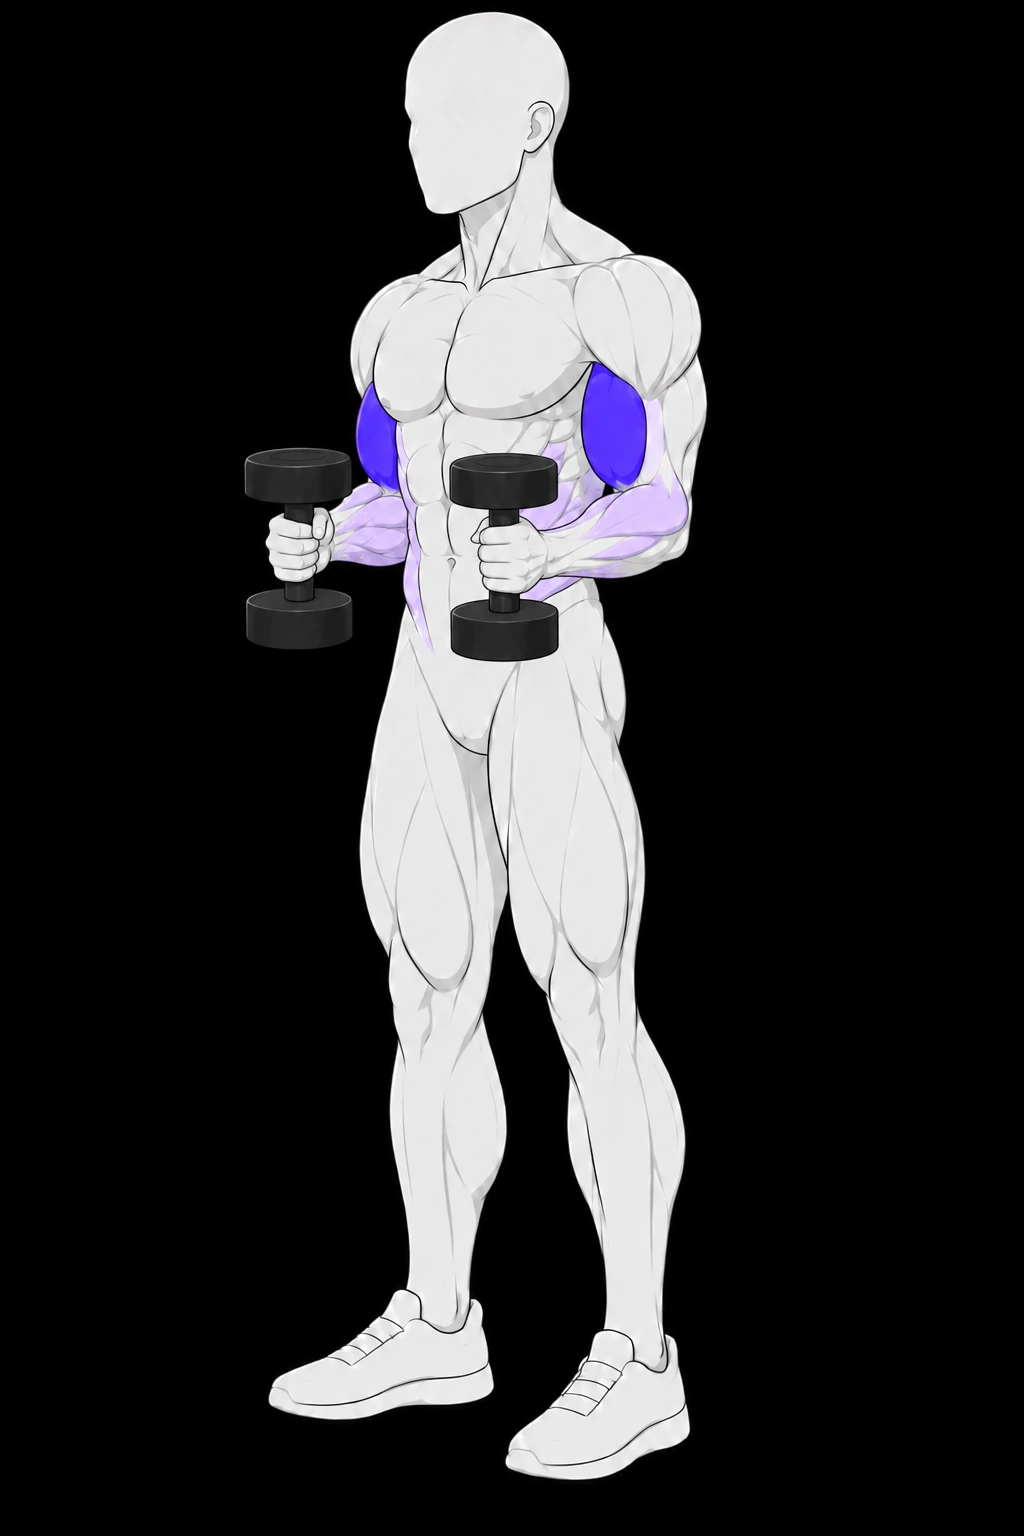
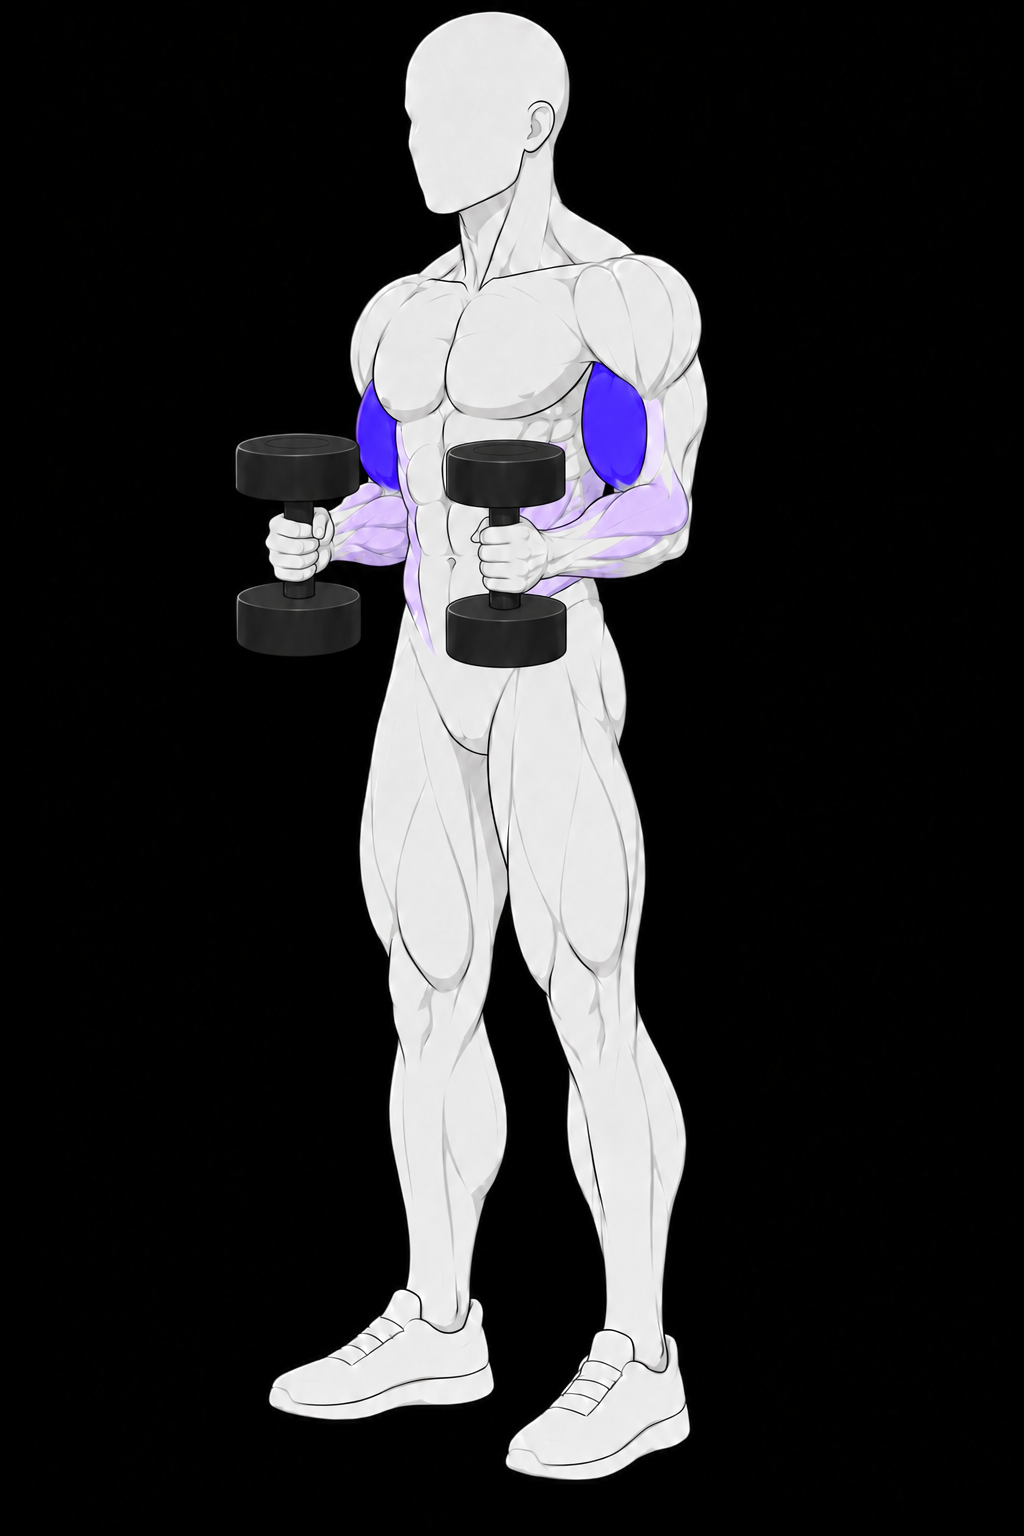
Release reviewed six-frame hammer curl guide (#2519)

diff --git a/src/lib/releasedFormPlacards.ts b/src/lib/releasedFormPlacards.ts
@@ -214,19 +214,7 @@ export const RELEASED_FORM_PLACARDS = {
     ]
   ),
   "db-curl": placard("db-curl", ["Biceps"], ["Forearms"], [[0,"Set","Stand tall with palms facing forward."],[0.5,"Curl","Bend your elbows without swinging your torso."],[1,"Top","Curl toward shoulders, keeping wrists straight."],[1,"Control","Keep upper arms close to your ribs."],[0.5,"Lower","Lower both dumbbells slowly under control."],[0,"Reset","Return near straight without snapping your elbows."]]),
-  "hammer-curl": placard(
-    "hammer-curl",
-    ["biceps", "brachialis"],
-    ["brachioradialis"],
-    [
-      [0, "Start", "Stand tall; keep palms facing inward."],
-      [0.25, "Initiate curl", "Curl without swinging your upper arms."],
-      [0.6, "Mid curl", "Keep wrists straight and elbows beside ribs."],
-      [1, "Top curl", "Finish the curl without lifting your elbows."],
-      [0.6, "Controlled lower", "Lower slowly with your palms facing inward."],
-      [0.25, "Return", "Return towards straight arms without bouncing."],
-    ]
-  ),
+  "hammer-curl": placard("hammer-curl", ["Biceps"], ["Brachioradialis", "Forearms"], [[0,"Set","Stand tall with palms facing inward."],[0.5,"Curl","Bend your elbows without turning your palms."],[1,"Top","Bring weights toward shoulders with wrists aligned."],[1,"Control","Keep upper arms beside your ribs."],[0.5,"Lower","Lower slowly with the same neutral grip."],[0,"Reset","Return near straight without swinging your torso."]]),
   "front-raise": placard(
     "front-raise",
     ["anterior deltoids"],

diff --git a/src/lib/__tests__/formArtOwnerRelease.test.ts b/src/lib/__tests__/formArtOwnerRelease.test.ts
@@ -7,7 +7,6 @@ import { validateOwnerArtworkRelease } from "../formArtOwnerRelease";
 import { validateArtworkReview } from "../formArtReview";
 
 const ids = [
-  "hammer-curl",
   "front-raise",
   "goblet-squat",
   "push-ups",
@@ -56,7 +55,7 @@ describe("owner-authorized artwork activation", () => {
      I/O, and raising it further would be treating the symptom. If this
      starts failing regularly rather than occasionally, the thing to
      look at is suite concurrency, not this number. */
-  it("ships exactly eight owner-authorized guides bound to source, delivered assets and cues", () => {
+  it("ships exactly seven owner-authorized guides bound to source, delivered assets and cues", () => {
     expect(
       Object.keys(FORM_ARTWORK)
         .filter(
@@ -82,7 +81,12 @@ describe("owner-authorized artwork activation", () => {
   it("keeps incomplete pilots inactive while releasing reviewed exact-ID guides", () => {
     for (const id of ["lat-pulldown", "deadlift", "incline-db-bench"])
       expect(getReleasedFormArtwork(id), id).toBeNull();
-    for (const id of ["concentration-curl", "bodyweight-squat", "db-curl"]) {
+    for (const id of [
+      "concentration-curl",
+      "bodyweight-squat",
+      "db-curl",
+      "hammer-curl",
+    ]) {
       expect(getReleasedFormArtwork(id)?.status, id).toBe("approved");
       const { review, expected } = evidence(id);
       expect(validateArtworkReview(review, expected), id).toEqual([]);

diff --git a/src/lib/formArtwork.ts b/src/lib/formArtwork.ts
@@ -180,7 +180,7 @@ export const FORM_ARTWORK: Record<string, FormArtwork> = {
     reviewFile: "docs/exercise-art/releases/2026-09-22/weighted-push-ups.json",
   },
   "db-curl": { version: "anatomy-v3-2026-09-29", status: "approved", width: 1024, height: 1536, frames: Array.from({length:6}, (_,i) => `form-frames/db-curl/${i+1}.webp`), reference: "form-frames/db-curl/1.webp", reviewFile: "docs/exercise-art/releases/2026-09-29/db-curl.json" },
-  "hammer-curl": ownerReleased("hammer-curl", 1024, 1536),
+  "hammer-curl": { version: "anatomy-v3-2026-09-29", status: "approved", width: 1024, height: 1536, frames: Array.from({length:6}, (_,i) => `form-frames/hammer-curl/${i+1}.webp`), reference: "form-frames/hammer-curl/1.webp", reviewFile: "docs/exercise-art/releases/2026-09-29/hammer-curl.json" },
   "front-raise": ownerReleased("front-raise", 1024, 1536),
   "goblet-squat": ownerReleased("goblet-squat", 1024, 1536),
   "push-ups": ownerReleased("push-ups", 1536, 1024),

diff --git a/src/lib/formArtCutouts.data.ts b/src/lib/formArtCutouts.data.ts
@@ -264,8 +264,8 @@ export const FORM_ART_CUTOUTS: Record<string, FormArtCutout> = {
     keyed: true,
     source: "form-frames/hammer-curl/1.webp",
     sourceSha256:
[4 lines of base64/hex data omitted]
   },
   "incline-bench": {
     src: "form-art/incline-bench.webp",
